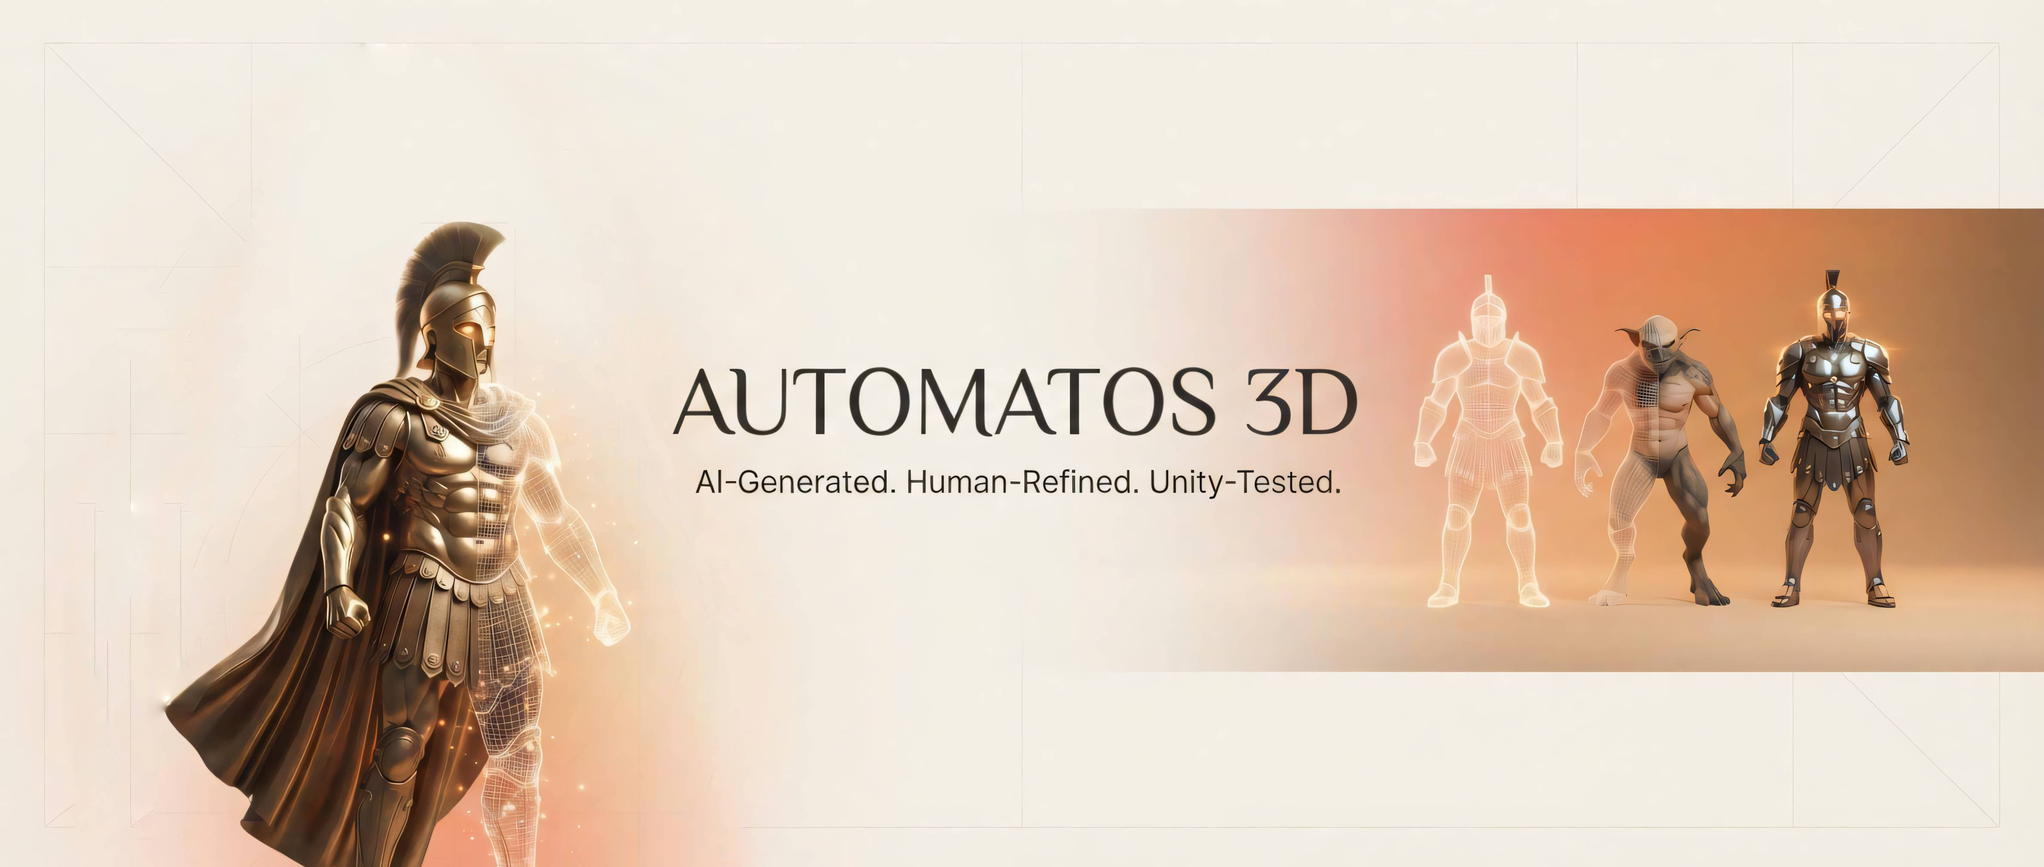
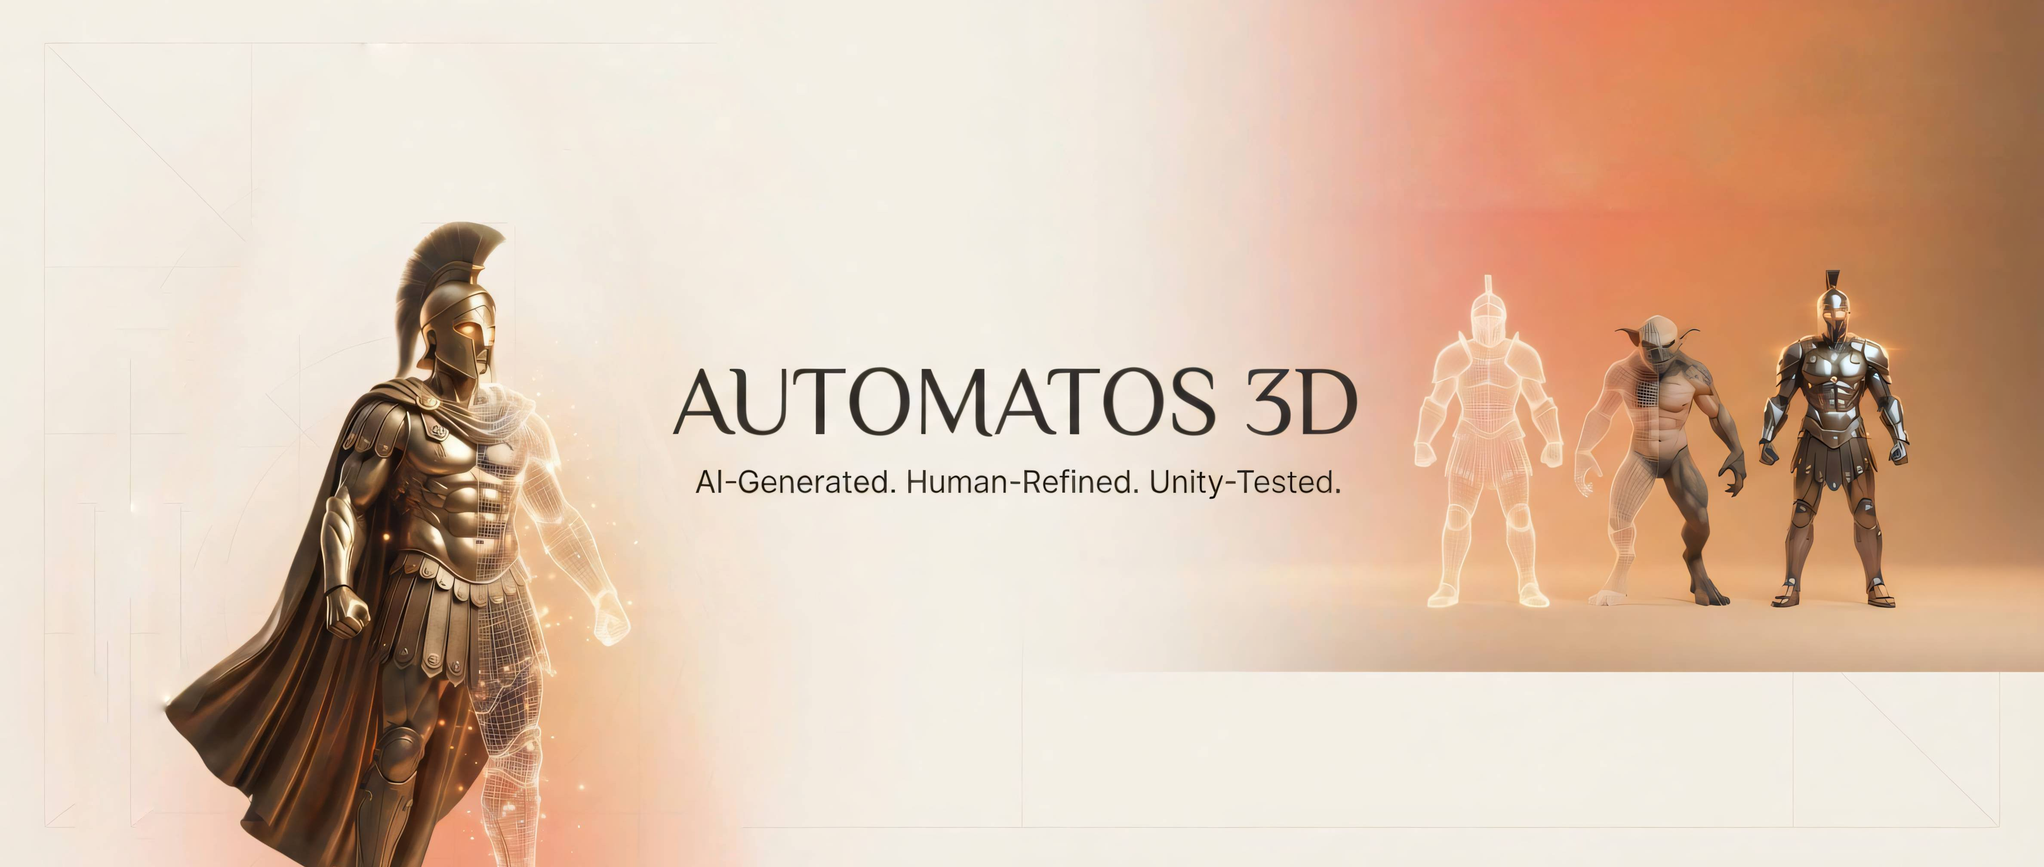
Layer triangles over hero; hero full-main-width bleed

Changed region(s): [[0.5606, 0.0, 1.0, 0.25]]

diff --git a/docs/css/main.min.e973087ab3a45c7409e1b8ef4d2c9d5be5ee9402348a130113b47d2c64aa3352.css b/docs/css/main.min.e973087ab3a45c7409e1b8ef4d2c9d5be5ee9402348a130113b47d2c64aa3352.css
@@ -1,0 +1,1 @@
+:root{--paper:#FAF9F6;--surface:#FFFFFF;--surface-2:#F1EFE9;--ink:#1F1E1B;--ink-soft:#3A3833;--accent:#CC785C;--accent-soft:rgba(204, 120, 92, 0.12);--accent-ink:#A85B41;--muted:#6F6B63;--border:#E5E2DB;--shadow:0 12px 32px rgba(31, 30, 27, 0.07);--shadow-lg:0 24px 60px rgba(31, 30, 27, 0.12);--font-display:'Source Serif 4', Georgia, 'Times New Roman', serif;--font-body:'Inter', system-ui, -apple-system, sans-serif}*{box-sizing:border-box}html{scroll-behavior:smooth}body{margin:0;background:var(--paper);color:var(--ink);font-family:var(--font-body);font-size:16px;line-height:1.6;-webkit-font-smoothing:antialiased}::selection{background:var(--accent);color:#fff}img{display:block;max-width:100%}a{color:var(--accent-ink);text-decoration:none}a:hover{color:var(--ink)}h1,h2,h3{font-family:var(--font-display);font-weight:600;line-height:1.15}.fx-canvas{position:fixed;inset:0;z-index:1;pointer-events:none}.layout{position:relative;display:grid;grid-template-columns:340px minmax(0,1fr);grid-template-rows:auto auto;min-height:100vh}.main{--pad-x:clamp(24px, 4vw, 64px);position:relative;z-index:2;grid-column:2;grid-row:2;min-width:0;padding:0 var(--pad-x)80px}.sidebar{position:sticky;top:0;height:100vh;overflow-y:auto;z-index:2;grid-column:1;grid-row:1/-1;display:flex;flex-direction:column;gap:24px;padding:40px 32px;background:var(--surface);border-right:1px solid var(--border)}.sidebar__brand{display:flex;align-items:center;gap:14px}.sidebar__logo{width:56px;height:56px;border-radius:10px;border:1px solid var(--border);object-fit:cover}.sidebar__name{font-family:var(--font-display);font-weight:600;font-size:1.1rem;letter-spacing:.06em;color:var(--ink);line-height:1.3}.sidebar__motto{margin:0;font-family:var(--font-body);font-weight:500;font-size:.78rem;letter-spacing:.12em;color:var(--muted);text-transform:uppercase;line-height:1.9;border-left:2px solid var(--accent);padding-left:12px;white-space:pre-line}.sidebar__desc{margin:0;color:var(--muted);font-size:.95rem;white-space:pre-line}.sidebar__nav{display:flex;flex-direction:column;gap:6px;padding-top:10px;border-top:1px solid var(--border)}.sidebar__nav a{display:flex;align-items:baseline;gap:10px;font-family:var(--font-body);font-weight:600;font-size:1.06rem;letter-spacing:.02em;text-transform:uppercase;color:var(--ink);padding:7px 0;transition:color .2s,transform .2s}.sidebar__nav a:hover{color:var(--accent-ink);transform:translateX(4px)}.sidebar__num{font-family:var(--font-display);font-weight:600;font-size:.9rem;color:var(--accent)}.sidebar__contact{margin-top:auto;padding-top:20px;border-top:1px solid var(--border)}.sidebar__contact-label{margin:0 0 6px;font-family:var(--font-body);font-weight:600;font-size:.7rem;letter-spacing:.14em;text-transform:uppercase;color:var(--muted)}.sidebar__links{display:flex;flex-wrap:wrap;gap:10px;margin-top:12px}.sidebar__social{display:inline-flex;align-items:center;justify-content:center;width:38px;height:38px;border-radius:50%;border:1px solid var(--border);background:var(--surface);transition:background .2s,border-color .2s,color .2s}.sidebar__social img{display:none}.sidebar__social i{font-size:1.05rem;color:var(--ink);transition:color .2s}.sidebar__social:hover{background:var(--surface-2);border-color:var(--accent)}.sidebar__social:hover i{color:var(--accent-ink)}.hero{position:relative;z-index:0;grid-column:2;grid-row:1}.hero__img{width:100%;height:clamp(220px,32vw,420px);object-fit:cover}.hero__shade{position:absolute;inset:0;background:linear-gradient(180deg,rgba(250,249,246,0) 55%,rgba(250,249,246,.92) 100%);pointer-events:none}.hero::after{content:"";position:absolute;left:0;bottom:0;height:3px;width:100%;background:var(--accent);pointer-events:none}.section{margin-top:64px}.section__head{display:flex;align-items:flex-start;gap:16px;margin-bottom:28px;padding-bottom:18px;border-bottom:1px solid var(--border)}.section__num{font-family:var(--font-display);font-size:.95rem;color:var(--accent);padding-top:4px;flex:none}.section--assets .section__num{color:var(--accent-ink)}.section__titles{min-width:0}.section__title{margin:0;font-family:var(--font-display);font-weight:600;font-size:clamp(1.6rem,3vw,2.3rem);letter-spacing:.02em;text-transform:uppercase;color:var(--ink)}.section__sub{margin:8px 0 0;color:var(--muted);font-size:1rem}.grid{display:grid;grid-template-columns:repeat(6,minmax(0,1fr));gap:20px}.grid--bundles{grid-template-columns:repeat(4,minmax(0,1fr))}.grid--assets .card__media{aspect-ratio:3/2}.grid--assets .card__body{padding:16px 18px 18px}.card{display:flex;flex-direction:column;background:var(--surface);border:1px solid var(--border);border-radius:12px;overflow:hidden;color:var(--ink);transition:transform .25s ease,box-shadow .25s ease,border-color .25s ease}.card:hover{transform:translateY(-4px);border-color:#d8d2c6;box-shadow:var(--shadow);color:var(--ink)}.card__media{position:relative;aspect-ratio:4/3;overflow:hidden;background:var(--surface-2)}.card__media img{width:100%;height:100%;object-fit:cover;transition:transform .4s ease}.card:hover .card__media img{transform:scale(1.04)}.card__tag{position:absolute;top:12px;left:12px;font-family:var(--font-body);font-weight:600;font-size:.66rem;letter-spacing:.1em;text-transform:uppercase;color:#fff;background:var(--accent);border-radius:999px;padding:4px 11px}.grid--assets .card__tag{background:var(--accent-ink)}.card__body{padding:16px 18px 18px}.card__title{margin:0 0 6px;font-family:var(--font-display);font-weight:600;font-size:1.02rem;letter-spacing:0;color:var(--ink)}.card__meta{margin:0 0 8px;font-family:var(--font-body);font-weight:500;font-size:.7rem;letter-spacing:.1em;color:var(--accent-ink);text-transform:uppercase}.card__summary{margin:0;font-size:.88rem;color:var(--muted)}.back{display:inline-block;margin-top:40px;font-family:var(--font-body);font-weight:500;font-size:.9rem;letter-spacing:0;color:var(--muted);margin-bottom:28px;transition:color .2s,transform .2s}.back:hover{color:var(--accent-ink);transform:translateX(-4px)}.product{display:grid;grid-template-columns:minmax(0,1.1fr)minmax(0,1fr);gap:clamp(28px,4vw,64px);align-items:stretch}.product__media{border-radius:14px;overflow:hidden;border:1px solid var(--border);box-shadow:var(--shadow);position:sticky;top:32px}.product__media img{width:100%}.gallery{position:relative;aspect-ratio:4/3;height:100%;overflow:hidden}.gallery__track{display:flex;height:100%;transition:transform .5s ease}.gallery__slide{flex:none;width:100%;height:100%;object-fit:cover}.gallery__arrow{position:absolute;top:50%;transform:translateY(-50%);width:42px;height:42px;display:flex;align-items:center;justify-content:center;border-radius:50%;background:rgba(255,255,255,.85);border:1px solid var(--border);color:var(--ink);cursor:pointer;font-size:.9rem;transition:background .2s,color .2s,border-color .2s}.gallery__arrow:hover{background:var(--accent);border-color:var(--accent);color:#fff}.gallery__arrow--prev{left:14px}.gallery__arrow--next{right:14px}.gallery__dots{position:absolute;bottom:14px;left:0;right:0;display:flex;justify-content:center;gap:8px}.gallery__dot{width:8px;height:8px;padding:0;border-radius:50%;border:1px solid rgba(31,30,27,.5);background:0 0;cursor:pointer;transition:background .2s}.gallery__dot.is-active{background:var(--ink);border-color:var(--ink)}.gallery__dot:hover{background:var(--accent);border-color:var(--accent)}.product__kicker{margin:0 0 12px;font-family:var(--font-body);font-weight:600;font-size:.75rem;letter-spacing:.16em;text-transform:uppercase;color:var(--accent-ink)}.product__title{margin:0 0 18px;font-family:var(--font-display);font-weight:600;font-size:clamp(2rem,4vw,3rem);letter-spacing:0;text-transform:none;color:var(--ink)}.product__summary{margin:0 0 28px;font-size:1.1rem;color:var(--muted)}.product__meta{list-style:none;margin:0 0 30px;padding:0;display:grid;grid-template-columns:repeat(2,minmax(0,1fr));gap:10px}.product__meta li{display:flex;flex-direction:column;gap:3px;background:var(--surface);border:1px solid var(--border);border-radius:10px;padding:14px 16px}.product__meta strong{font-family:var(--font-body);font-weight:600;font-size:.68rem;letter-spacing:.12em;text-transform:uppercase;color:var(--accent-ink)}.product__meta span{color:var(--ink);font-weight:500;font-size:1rem}.product__meta .stat{font-size:1.8rem;font-weight:600;line-height:1.1;color:var(--ink)}.btn{display:flex;align-items:center;justify-content:center;width:100%;gap:10px;font-family:var(--font-body);font-weight:600;font-size:.95rem;letter-spacing:.02em;color:#fff;background:var(--ink);border:none;border-radius:10px;padding:15px 26px;cursor:pointer;transition:background .2s,transform .2s,box-shadow .2s}.btn i{font-size:.95rem}.btn:hover{background:var(--ink-soft);transform:translateY(-1px);box-shadow:var(--shadow);color:#fff}.coming-soon{display:flex;align-items:center;justify-content:center;gap:10px;width:100%;margin:0;font-family:var(--font-body);font-weight:500;font-size:.9rem;letter-spacing:.02em;color:var(--muted);border:1px dashed #d8d2c6;border-radius:10px;padding:15px 26px}.coming-soon i{color:var(--accent);font-size:.95rem}.product__body{margin-top:32px;color:var(--ink)}.product__body p{margin:0 0 18px}.product__body p:last-child{margin-bottom:0}.bundle-alert{margin-top:32px;border:1px solid var(--border);border-left:3px solid var(--accent);background:var(--surface-2);border-radius:12px;padding:18px 20px}.bundle-alert__head{display:flex;align-items:center;gap:10px;color:var(--ink);font-family:var(--font-body);font-weight:600;font-size:.9rem}.bundle-alert__head i{font-size:1.05rem;flex:none;color:var(--accent)}.bundle-alert__list{display:flex;flex-wrap:wrap;gap:10px;margin-top:14px}.bundle-alert__item{display:flex;align-items:center;gap:12px;border:1px solid var(--border);background:var(--surface);border-radius:999px;padding:9px 16px;color:var(--ink);font-weight:500;transition:border-color .2s,background .2s}.bundle-alert__item:hover{border-color:var(--accent);background:var(--surface);color:var(--ink)}.bundle-alert__price{font-weight:600;color:var(--accent-ink);font-size:.9rem}.product__video{margin-top:44px}.product__video iframe{display:block;width:100%;aspect-ratio:16/9;border:1px solid var(--border);border-radius:14px;box-shadow:var(--shadow)}.videos{margin-top:44px}.videos__title{margin:0 0 18px;font-family:var(--font-display);font-weight:600;font-size:clamp(1.6rem,3vw,2.3rem);letter-spacing:0;color:var(--ink)}.videos__grid{display:grid;grid-template-columns:repeat(4,minmax(0,1fr));gap:18px}.videos__item iframe{display:block;width:100%;aspect-ratio:16/9;border:1px solid var(--border);border-radius:12px;background:var(--surface-2)}.page{max-width:900px}.faq h2{margin:40px 0 12px;padding-left:16px;border-left:3px solid var(--accent);font-family:var(--font-display);font-weight:600;font-size:1.2rem;letter-spacing:.03em;text-transform:uppercase;color:var(--ink)}.faq h2:first-of-type{margin-top:6px}.faq p{margin:0 0 22px;padding-left:19px;color:var(--muted);font-size:1.02rem}.site-footer{margin-top:80px;padding-top:22px;border-top:1px solid var(--border);font-size:.85rem;letter-spacing:.02em;color:var(--muted)}@media(max-width:1200px){.card__summary{display:none}}@media(max-width:1700px){.grid{grid-template-columns:repeat(6,minmax(0,1fr))}.grid--bundles{grid-template-columns:repeat(4,minmax(0,1fr))}}@media(max-width:1450px){.grid{grid-template-columns:repeat(5,minmax(0,1fr))}.grid--bundles{grid-template-columns:repeat(4,minmax(0,1fr))}}@media(max-width:1200px){.grid{grid-template-columns:repeat(4,minmax(0,1fr))}}@media(max-width:1000px){.grid{grid-template-columns:repeat(3,minmax(0,1fr))}.videos__grid{grid-template-columns:repeat(2,minmax(0,1fr))}}@media(max-width:560px){.videos__grid{grid-template-columns:1fr}}@media(max-width:1080px){.layout{grid-template-columns:280px minmax(0,1fr)}.sidebar{padding:28px 22px}.product{grid-template-columns:1fr}.product__media{position:static}.gallery{height:auto}}@media(max-width:760px){.layout{grid-template-columns:1fr}.sidebar{position:relative;height:auto;border-right:none;border-bottom:1px solid var(--border);grid-column:auto;grid-row:auto}.hero{grid-column:auto;grid-row:auto}.main{grid-column:auto;grid-row:auto}.sidebar__contact{margin-top:8px}.grid{grid-template-columns:repeat(2,minmax(0,1fr))}.product__meta{grid-template-columns:1fr}.section__sub{margin-left:0}}@media(max-width:480px){.grid{grid-template-columns:1fr}}

diff --git a/assets/css/main.css b/assets/css/main.css
@@ -47,21 +47,26 @@ h1, h2, h3 { font-family: var(--font-display); font-weight: 600; line-height: 1.
 .fx-canvas {
   position: fixed;
   inset: 0;
-  z-index: 0;
+  z-index: 1;
   pointer-events: none;
 }
 
 .layout {
   position: relative;
-  z-index: 1;
   display: grid;
   grid-template-columns: 340px minmax(0, 1fr);
+  grid-template-rows: auto auto;
   min-height: 100vh;
 }
 
 .main {
+  --pad-x: clamp(24px, 4vw, 64px);
+  position: relative;
+  z-index: 2;
+  grid-column: 2;
+  grid-row: 2;
   min-width: 0;
-  padding: 40px clamp(24px, 4vw, 64px) 80px;
+  padding: 0 var(--pad-x) 80px;
 }
 
 /* ---------- Sidebar ---------- */
@@ -71,6 +76,9 @@ h1, h2, h3 { font-family: var(--font-display); font-weight: 600; line-height: 1.
   top: 0;
   height: 100vh;
   overflow-y: auto;
+  z-index: 2;
+  grid-column: 1;
+  grid-row: 1 / -1;
   display: flex;
   flex-direction: column;
   gap: 24px;
@@ -195,7 +203,9 @@ h1, h2, h3 { font-family: var(--font-display); font-weight: 600; line-height: 1.
 
 .hero {
   position: relative;
-  margin-bottom: 12px;
+  z-index: 0;
+  grid-column: 2;
+  grid-row: 1;
 }
 
 .hero__img {
@@ -356,6 +366,7 @@ h1, h2, h3 { font-family: var(--font-display); font-weight: 600; line-height: 1.
 
 .back {
   display: inline-block;
+  margin-top: 40px;
   font-family: var(--font-body);
   font-weight: 500;
   font-size: 0.9rem;
@@ -742,10 +753,20 @@ h1, h2, h3 { font-family: var(--font-display); font-weight: 600; line-height: 1.
 @media (max-width: 760px) {
   .layout { grid-template-columns: 1fr; }
   .sidebar {
-    position: static;
+    position: relative;
     height: auto;
     border-right: none;
     border-bottom: 1px solid var(--border);
+    grid-column: auto;
+    grid-row: auto;
+  }
+  .hero {
+    grid-column: auto;
+    grid-row: auto;
+  }
+  .main {
+    grid-column: auto;
+    grid-row: auto;
   }
   .sidebar__contact { margin-top: 8px; }
   .grid { grid-template-columns: repeat(2, minmax(0, 1fr)); }

diff --git a/docs/index.html b/docs/index.html
@@ -14,7 +14,7 @@ So what you ship looks great and works flawlessly.">
 <link href="https://fonts.googleapis.com/css2?family=Inter:wght@400;500;600;700&family=Source+Serif+4:opsz,wght@8..60,400;8..60,600&display=swap" rel="stylesheet">
 <link rel="stylesheet" href="https://cdnjs.cloudflare.com/ajax/libs/font-awesome/6.7.2/css/all.min.css">
 
-<link rel="stylesheet" href="/css/main.min.c30668f398bf319d2e8c2633939cdb390cab2962b29086ee4350a1607a52fd63.css">
+<link rel="stylesheet" href="/css/main.min.e973087ab3a45c7409e1b8ef4d2c9d5be5ee9402348a130113b47d2c64aa3352.css">
 
 </head>
 <body>
@@ -53,13 +53,14 @@ So what you ship looks great and works flawlessly.</p>
   </div>
 </aside>
 
+    
+      <section class="hero">
+        <img class="hero__img" src="/images/brand/banner_big.jpg" alt="AUTOMATOS 3D banner">
+        <div class="hero__shade"></div>
+      </section>
+    
     <main class="main" id="main">
       
-  <section class="hero">
-    <img class="hero__img" src="/images/brand/banner_big.jpg" alt="AUTOMATOS 3D banner">
-    <div class="hero__shade"></div>
-  </section>
-
   <section class="section section--bundles" id="bundles">
     <header class="section__head">
       <span class="section__num">01</span>

diff --git a/docs/faq/index.html b/docs/faq/index.html
@@ -13,7 +13,7 @@ So what you ship looks great and works flawlessly.">
 <link href="https://fonts.googleapis.com/css2?family=Inter:wght@400;500;600;700&family=Source+Serif+4:opsz,wght@8..60,400;8..60,600&display=swap" rel="stylesheet">
 <link rel="stylesheet" href="https://cdnjs.cloudflare.com/ajax/libs/font-awesome/6.7.2/css/all.min.css">
 
-<link rel="stylesheet" href="/css/main.min.c30668f398bf319d2e8c2633939cdb390cab2962b29086ee4350a1607a52fd63.css">
+<link rel="stylesheet" href="/css/main.min.e973087ab3a45c7409e1b8ef4d2c9d5be5ee9402348a130113b47d2c64aa3352.css">
 
 </head>
 <body>
@@ -52,6 +52,7 @@ So what you ship looks great and works flawlessly.</p>
   </div>
 </aside>
 
+    
     <main class="main" id="main">
       
   <a class="back" href="/">← Back</a>

diff --git a/docs/assets/index.html b/docs/assets/index.html
@@ -13,7 +13,7 @@ So what you ship looks great and works flawlessly.">
 <link href="https://fonts.googleapis.com/css2?family=Inter:wght@400;500;600;700&family=Source+Serif+4:opsz,wght@8..60,400;8..60,600&display=swap" rel="stylesheet">
 <link rel="stylesheet" href="https://cdnjs.cloudflare.com/ajax/libs/font-awesome/6.7.2/css/all.min.css">
 
-<link rel="stylesheet" href="/css/main.min.c30668f398bf319d2e8c2633939cdb390cab2962b29086ee4350a1607a52fd63.css">
+<link rel="stylesheet" href="/css/main.min.e973087ab3a45c7409e1b8ef4d2c9d5be5ee9402348a130113b47d2c64aa3352.css">
 
 </head>
 <body>
@@ -52,6 +52,7 @@ So what you ship looks great and works flawlessly.</p>
   </div>
 </aside>
 
+    
     <main class="main" id="main">
       
   <section class="section">

diff --git a/docs/bundles/index.html b/docs/bundles/index.html
@@ -13,7 +13,7 @@ So what you ship looks great and works flawlessly.">
 <link href="https://fonts.googleapis.com/css2?family=Inter:wght@400;500;600;700&family=Source+Serif+4:opsz,wght@8..60,400;8..60,600&display=swap" rel="stylesheet">
 <link rel="stylesheet" href="https://cdnjs.cloudflare.com/ajax/libs/font-awesome/6.7.2/css/all.min.css">
 
-<link rel="stylesheet" href="/css/main.min.c30668f398bf319d2e8c2633939cdb390cab2962b29086ee4350a1607a52fd63.css">
+<link rel="stylesheet" href="/css/main.min.e973087ab3a45c7409e1b8ef4d2c9d5be5ee9402348a130113b47d2c64aa3352.css">
 
 </head>
 <body>
@@ -52,6 +52,7 @@ So what you ship looks great and works flawlessly.</p>
   </div>
 </aside>
 
+    
     <main class="main" id="main">
       
   <section class="section">

diff --git a/docs/categories/index.html b/docs/categories/index.html
@@ -13,7 +13,7 @@ So what you ship looks great and works flawlessly.">
 <link href="https://fonts.googleapis.com/css2?family=Inter:wght@400;500;600;700&family=Source+Serif+4:opsz,wght@8..60,400;8..60,600&display=swap" rel="stylesheet">
 <link rel="stylesheet" href="https://cdnjs.cloudflare.com/ajax/libs/font-awesome/6.7.2/css/all.min.css">
 
-<link rel="stylesheet" href="/css/main.min.c30668f398bf319d2e8c2633939cdb390cab2962b29086ee4350a1607a52fd63.css">
+<link rel="stylesheet" href="/css/main.min.e973087ab3a45c7409e1b8ef4d2c9d5be5ee9402348a130113b47d2c64aa3352.css">
 
 </head>
 <body>
@@ -52,6 +52,7 @@ So what you ship looks great and works flawlessly.</p>
   </div>
 </aside>
 
+    
     <main class="main" id="main">
       
   <section class="section">

diff --git a/docs/tags/index.html b/docs/tags/index.html
@@ -13,7 +13,7 @@ So what you ship looks great and works flawlessly.">
 <link href="https://fonts.googleapis.com/css2?family=Inter:wght@400;500;600;700&family=Source+Serif+4:opsz,wght@8..60,400;8..60,600&display=swap" rel="stylesheet">
 <link rel="stylesheet" href="https://cdnjs.cloudflare.com/ajax/libs/font-awesome/6.7.2/css/all.min.css">
 
-<link rel="stylesheet" href="/css/main.min.c30668f398bf319d2e8c2633939cdb390cab2962b29086ee4350a1607a52fd63.css">
+<link rel="stylesheet" href="/css/main.min.e973087ab3a45c7409e1b8ef4d2c9d5be5ee9402348a130113b47d2c64aa3352.css">
 
 </head>
 <body>
@@ -52,6 +52,7 @@ So what you ship looks great and works flawlessly.</p>
   </div>
 </aside>
 
+    
     <main class="main" id="main">
       
   <section class="section">

diff --git a/docs/assets/crystal-biome/index.html b/docs/assets/crystal-biome/index.html
@@ -13,7 +13,7 @@ So what you ship looks great and works flawlessly.">
 <link href="https://fonts.googleapis.com/css2?family=Inter:wght@400;500;600;700&family=Source+Serif+4:opsz,wght@8..60,400;8..60,600&display=swap" rel="stylesheet">
 <link rel="stylesheet" href="https://cdnjs.cloudflare.com/ajax/libs/font-awesome/6.7.2/css/all.min.css">
 
-<link rel="stylesheet" href="/css/main.min.c30668f398bf319d2e8c2633939cdb390cab2962b29086ee4350a1607a52fd63.css">
+<link rel="stylesheet" href="/css/main.min.e973087ab3a45c7409e1b8ef4d2c9d5be5ee9402348a130113b47d2c64aa3352.css">
 
 </head>
 <body>
@@ -52,6 +52,7 @@ So what you ship looks great and works flawlessly.</p>
   </div>
 </aside>
 
+    
     <main class="main" id="main">
       
   

diff --git a/docs/assets/cyber-racer/index.html b/docs/assets/cyber-racer/index.html
@@ -13,7 +13,7 @@ So what you ship looks great and works flawlessly.">
 <link href="https://fonts.googleapis.com/css2?family=Inter:wght@400;500;600;700&family=Source+Serif+4:opsz,wght@8..60,400;8..60,600&display=swap" rel="stylesheet">
 <link rel="stylesheet" href="https://cdnjs.cloudflare.com/ajax/libs/font-awesome/6.7.2/css/all.min.css">
 
-<link rel="stylesheet" href="/css/main.min.c30668f398bf319d2e8c2633939cdb390cab2962b29086ee4350a1607a52fd63.css">
+<link rel="stylesheet" href="/css/main.min.e973087ab3a45c7409e1b8ef4d2c9d5be5ee9402348a130113b47d2c64aa3352.css">
 
 </head>
 <body>
@@ -52,6 +52,7 @@ So what you ship looks great and works flawlessly.</p>
   </div>
 </aside>
 
+    
     <main class="main" id="main">
       
   

diff --git a/docs/assets/drone-swarm/index.html b/docs/assets/drone-swarm/index.html
@@ -13,7 +13,7 @@ So what you ship looks great and works flawlessly.">
 <link href="https://fonts.googleapis.com/css2?family=Inter:wght@400;500;600;700&family=Source+Serif+4:opsz,wght@8..60,400;8..60,600&display=swap" rel="stylesheet">
 <link rel="stylesheet" href="https://cdnjs.cloudflare.com/ajax/libs/font-awesome/6.7.2/css/all.min.css">
 
-<link rel="stylesheet" href="/css/main.min.c30668f398bf319d2e8c2633939cdb390cab2962b29086ee4350a1607a52fd63.css">
+<link rel="stylesheet" href="/css/main.min.e973087ab3a45c7409e1b8ef4d2c9d5be5ee9402348a130113b47d2c64aa3352.css">
 
 </head>
 <body>
@@ -52,6 +52,7 @@ So what you ship looks great and works flawlessly.</p>
   </div>
 </aside>
 
+    
     <main class="main" id="main">
       
   

diff --git a/docs/assets/holo-ui-kit/index.html b/docs/assets/holo-ui-kit/index.html
@@ -13,7 +13,7 @@ So what you ship looks great and works flawlessly.">
 <link href="https://fonts.googleapis.com/css2?family=Inter:wght@400;500;600;700&family=Source+Serif+4:opsz,wght@8..60,400;8..60,600&display=swap" rel="stylesheet">
 <link rel="stylesheet" href="https://cdnjs.cloudflare.com/ajax/libs/font-awesome/6.7.2/css/all.min.css">
 
-<link rel="stylesheet" href="/css/main.min.c30668f398bf319d2e8c2633939cdb390cab2962b29086ee4350a1607a52fd63.css">
+<link rel="stylesheet" href="/css/main.min.e973087ab3a45c7409e1b8ef4d2c9d5be5ee9402348a130113b47d2c64aa3352.css">
 
 </head>
 <body>
@@ -52,6 +52,7 @@ So what you ship looks great and works flawlessly.</p>
   </div>
 </aside>
 
+    
     <main class="main" id="main">
       
   
